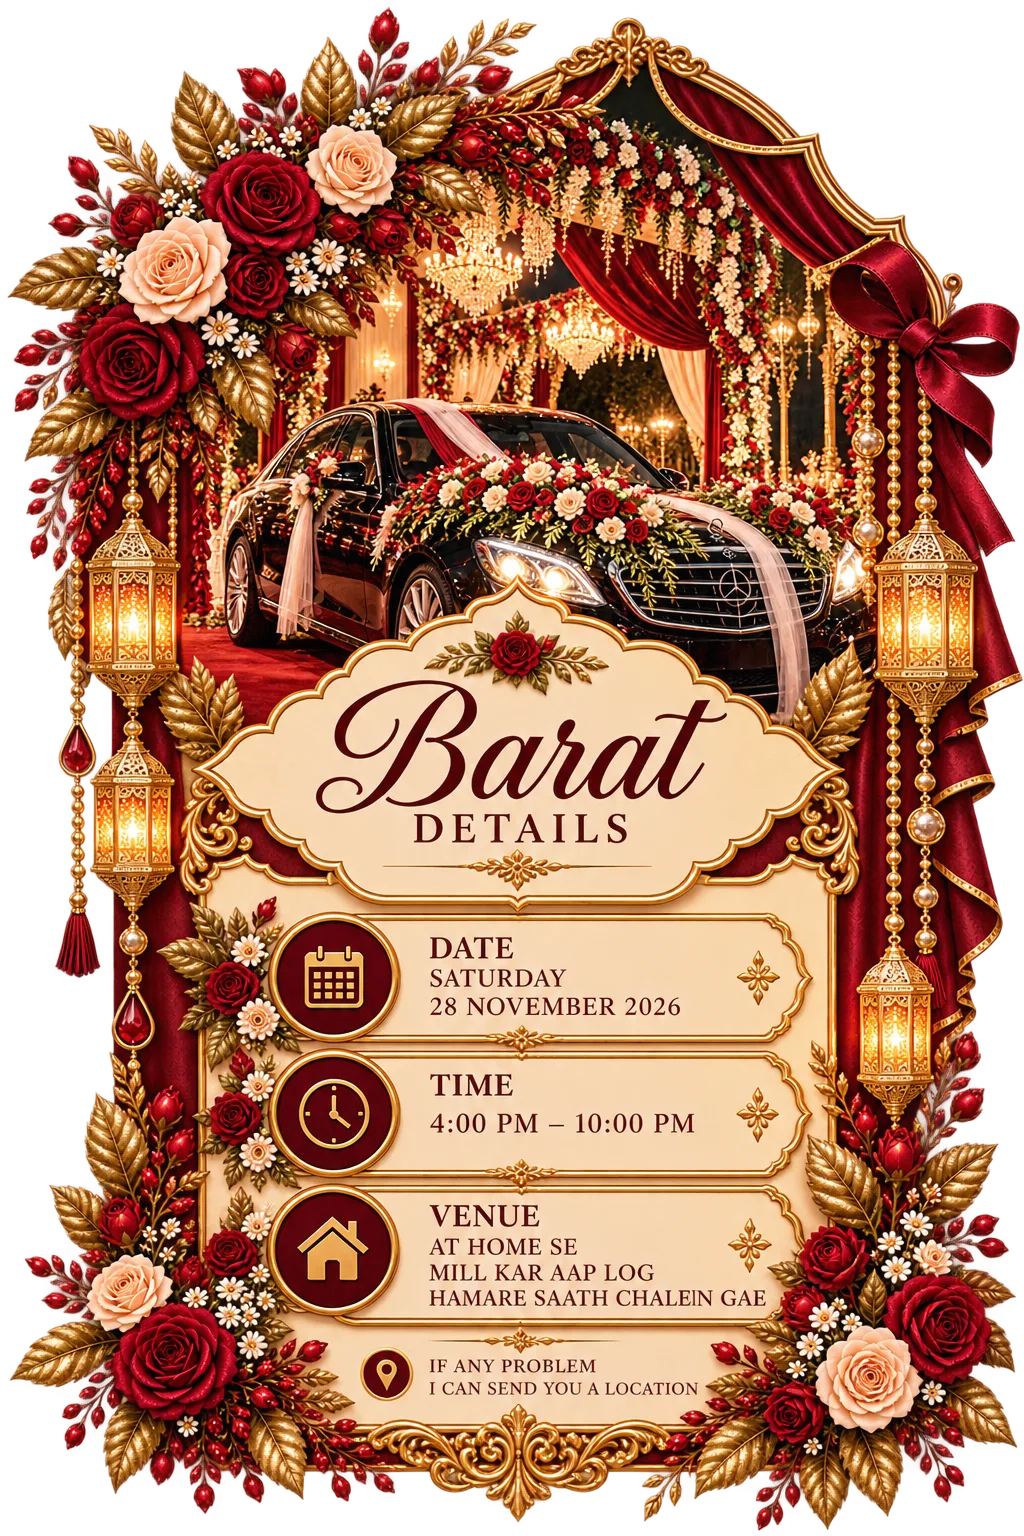
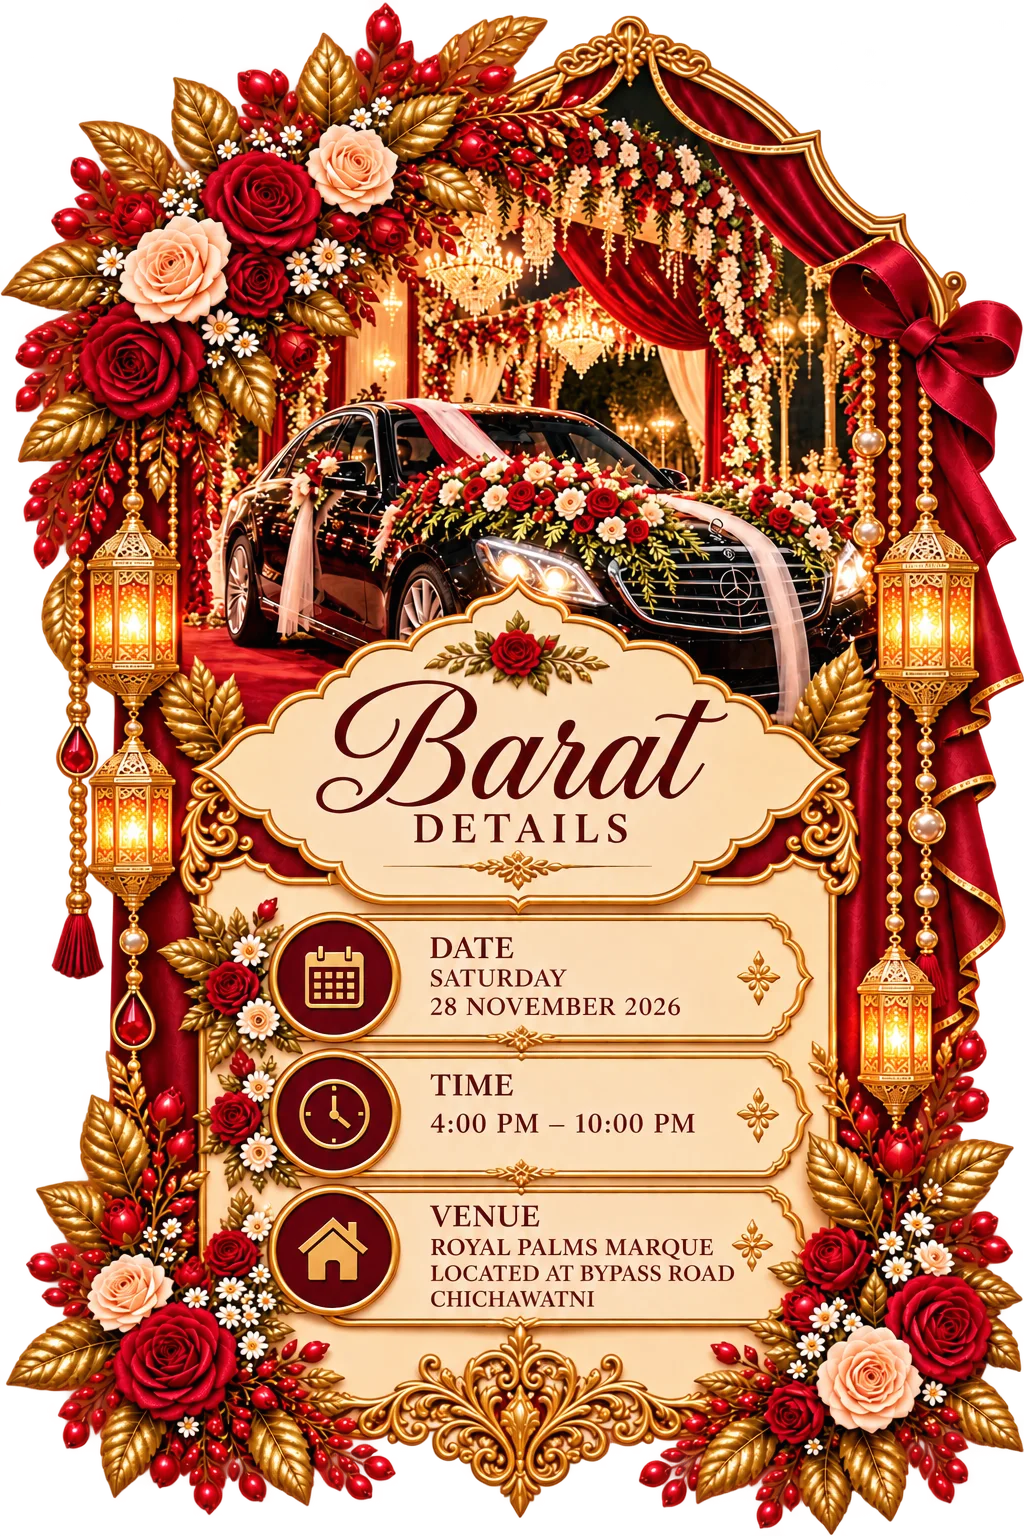
Update wedding event cards

diff --git a/baraat.html b/baraat.html
@@ -121,7 +121,7 @@
                         </span>
 
                         <p class="baraat-detail-value">
-                            ADD BARAAT VENUE HERE
+                            Royal Palms Marque Located AT Bypass Road Chichawatni 
                         </p>
                     </div>
 
